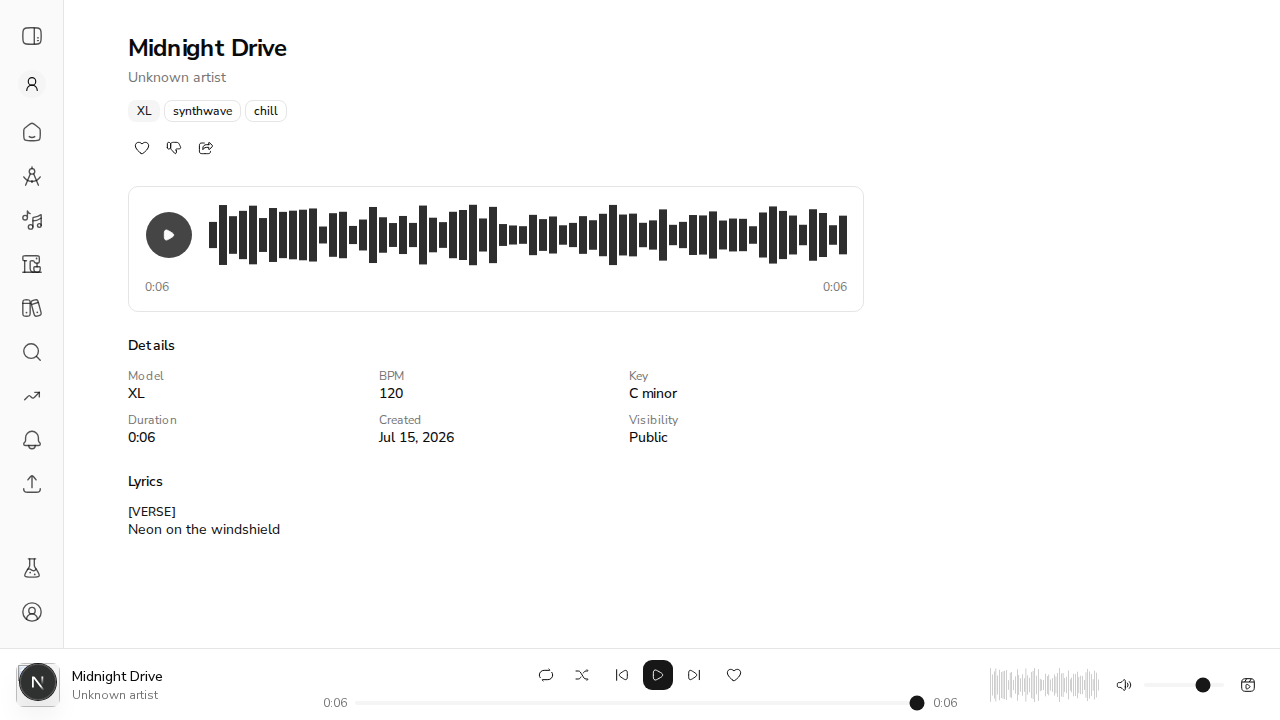
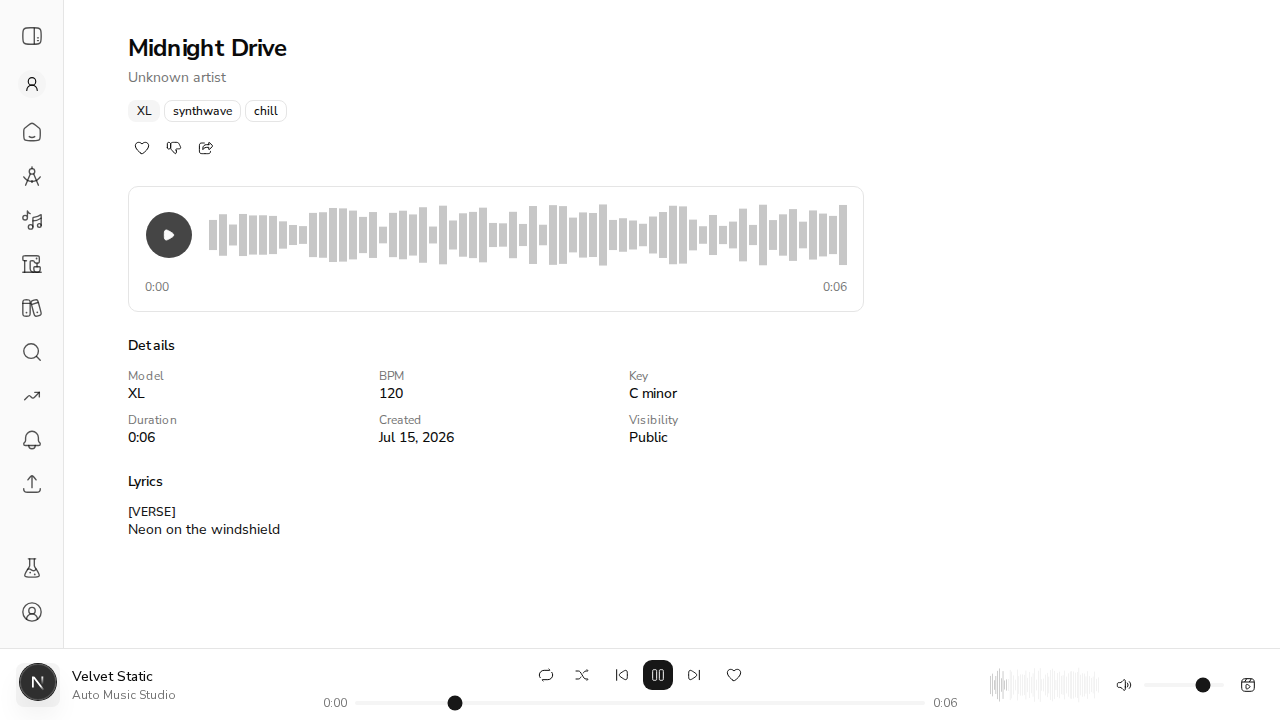
docs: re-run US-20.0 demo against the final commit (#250)
The prior evidence was captured at e8e2b7a, three commits before HEAD — one of
which (272378a) changed the ownership-gate default the AC4 evidence rests on, so
the demo was re-run rather than assumed still valid.

The public clip is now seeded with a *private parent*, which exercises the
ancestry redaction from 3e6672d against real lineage: the owner's page shows
'Generation history -> Derived from Private Parent Sketch', while a signed-out
visitor gets no panel and the parent's ObjectId appears nowhere in the DOM.

diff --git a/docs/demos/us-20.0-public-song-page.md b/docs/demos/us-20.0-public-song-page.md
@@ -1,43 +1,56 @@
 # US-20.0 — Public Song Page & Anonymous Public Read
 
-Demo of issue #250. Every acceptance criterion below is backed by observed
-outcome, not by "the page rendered" or "the test exited 0".
+Demo of issue #250, re-run end-to-end against the final commit (`272378a`). Every
+acceptance criterion below is backed by observed outcome — not "the page
+rendered" and not "the tests are green".
 
 ## Setup
 
-A throwaway stack: API on `:8077` (Mongo on `:27018`, local storage), web on
-`:3077`. Two clips seeded for one owner (no clip-ingest API exists, so they go in
-via Beanie + storage):
+Throwaway stack: API on `:8077` (Mongo on `:27018`, local storage), web on
+`:3077`. Three clips seeded for one owner (no clip-ingest API exists, so they go
+in via Beanie + storage), plus a second account to act as a non-owner:
 
-| Clip | Visibility | Id |
+| Clip | Visibility | Note |
 |---|---|---|
-| Midnight Drive | **public** | `6a570edf801c407af6acb010` |
-| Unreleased Sketch | **private** | `6a570edf801c407af6acb011` |
+| Midnight Drive | **public** | the shared link; **derived from the private parent below** |
+| Private Parent Sketch | private | ancestor of the public clip — exercises the ancestry redaction |
+| Unreleased Sketch | private | the "private clips stay private" case |
 
-Both carry a real 6-second WAV tone, a title, style tags, lyrics, and a
+Each carries a real 6-second WAV tone, title, style tags, lyrics, and a
 generation recipe (`seed=4242`, `inference_steps=30`).
 
-## AC1 — A signed-out visitor opening a public clip's link sees the song page
+The public clip deliberately has a **private parent**, so the redaction is
+exercised against real ancestry rather than an empty list.
 
-Opened `/song/6a570edf801c407af6acb010` in a browser with **no cookies at all**
-(`document.cookie` → empty). No redirect to `/login`; `location.pathname` stayed
-on the song URL.
+## Evidence table
+
+| Criterion | Action | Outcome evidence | Status |
+|---|---|---|---|
+| AC1 — signed-out visitor sees the song page | Open `/song/{public}` with no session cookie | Stays on `/song/…` (no `/login` redirect); title "Midnight Drive", tags `synthwave`/`chill`, Details BPM 120 / Key C minor / Visibility Public, lyrics all render | **VERIFIED** |
+| AC1 — playable audio | Real click on Play | Transport flips to **Pause**; elapsed advances **0:00 → 0:01 → 0:02** in both the song player and the playbar; `/api/clips/{id}/stream` transferred **529,544 bytes** with no `Authorization` header | **VERIFIED** |
+| AC2 — non-owner authenticated user can open it | Sign in as `[email redacted]`, open the same URL | `AUTHENTICATED: true` (app fetched `/api/users/me`, which only happens with a real access token); title renders; `notFound: false` | **VERIFIED** |
+| AC3 — private clips still 404, no metadata leak | Open `/song/{private}` signed out | "Song not found"; `leaksTitle: false`, `leaksLyrics: false`. API: `GET /clips/{private}/public` → **404** (not 403 — a stranger can't tell it exists) | **VERIFIED** |
+| AC4 — owner-only actions hidden for non-owners | Same URL, three viewers | signed-out → no publish toggle, no Actions menu; authenticated non-owner → same; **owner → both appear**. Gated on `is_owner`, not globally absent | **VERIFIED** |
+| AC5 — owner-scoped CRUD read preserved | `GET /clips/{public}` | anonymous → **401** (still auth-gated); owner → 200. `test_other_users_clip_returns_404_even_when_public` passes unchanged | **VERIFIED** |
+
+## AC1 — signed-out visitor
+
+Opened with **no session cookie** (`document.cookie` held only Next's HMR dev
+hash). No redirect.
 
 ![Anonymous visitor viewing the public song page](us200-anon-public.png)
 
-Title, style tags (`synthwave`, `chill`), Details (Model / BPM 120 / Key C minor
-/ Duration / Visibility Public) and lyrics all render.
+Playback is real, not inferred. The engine builds its element with `new Audio()`,
+so it never enters the DOM and "an `<audio>` exists" would prove nothing. A
+direct probe of the proxy URL in the signed-out browser:
 
-**Playable audio — actually played, not just present.** The engine builds the
-`<audio>` element with `new Audio()`, so it is never in the DOM and "an element
-exists" would prove nothing. Instead:
+```json
+{ "duration": 6, "readyState": 4, "mediaError": null, "playError": null,
+  "paused": false, "before": 0, "after": 1.46, "advanced": true }
+```
 
-- The browser fetched `/api/clips/{id}/stream` and transferred **529,544 bytes**
-  (the full WAV) with no `Authorization` header.
-- After a real click on Play, the transport flipped to **Pause** and the elapsed
-  time advanced **0:00 → 0:03**. Duration read `0:06`, matching the seeded tone.
-
-Range requests work through the proxy, so seeking is real:
+The audio decodes to the correct 6-second duration and `currentTime` advances —
+served anonymously. Seeking works too:
 
 ```
 $ curl -sD- -H "Range: bytes=0-99" localhost:3077/api/clips/{id}/stream
@@ -45,98 +58,79 @@ HTTP/1.1 206 Partial Content
 content-range: bytes 0-99/529244
 ```
 
-## AC2 — A non-owner authenticated user can open a public clip's page
-
-Signed in as a second account (`[email redacted]`) via a real rotating
-refresh-token session. Confirmed genuinely authenticated — the app fetched
-`/api/users/me`, which it only does when it holds an access token:
-
-```json
-{ "AUTHENTICATED": true, "title": "Midnight Drive",
-  "ownerControls": [], "actionsDropdown": false }
-```
+## AC2 — authenticated non-owner
 
 ![Authenticated non-owner viewing the public song page](us200-nonowner-public.png)
 
-## AC3 — Private clips still 404 for non-owners / anonymous (no metadata leak)
+Confirmed genuinely signed in rather than silently anonymous — an earlier attempt
+looked green while actually being anonymous, because the rotating refresh token
+had already been consumed.
 
-Anonymous visitor opening the **private** clip's link:
+## AC3 — private clip
 
 ![Private clip is not found for a visitor](us200-anon-private.png)
 
-Asserted the page leaks neither the title nor the lyrics:
+## AC4 — ownership gating, and the redaction made visible
 
-```json
-{ "notFound": true, "heading": "Song not found",
-  "leaksTitle": false, "leaksLyrics": false }
-```
-
-At the API, a stranger cannot even tell the clip exists — anonymous gets an
-indistinguishable 404 (not a 403):
-
-```
-$ curl -s localhost:8077/api/v1/clips/{private}/public
-{"detail":"Clip not found."}    # status=404
-```
-
-## AC4 — Owner-only actions are hidden for non-owners
-
-The same clip at the same URL, by viewer:
-
-| Viewer | Publish toggle | Actions menu | Like / Dislike / Share |
-|---|---|---|---|
-| Anonymous | hidden | hidden | shown |
-| Authenticated non-owner | hidden | hidden | shown |
-| **Owner** | **shown** | **shown** | shown |
-
-The owner's view — note the 4th (globe) icon and the **Actions** dropdown that
-visitors don't get:
+The owner's view of the **same URL**. Note the 4th (globe) icon and the
+**Actions** dropdown that visitors don't get — and the **Generation history**
+panel showing *"Derived from → Private Parent Sketch"*:
 
 ![Owner viewing their own public song page](us200-owner-public.png)
 
-This is the load-bearing half of the check: the controls appear *only* when the
-server says `is_owner`, so they are genuinely gated rather than globally absent.
+The signed-out visitor gets none of it. Same clip, same URL:
 
-## AC5 — Owner-scoped CRUD read is preserved; the public read is distinct
-
-`GET /clips/{id}` is untouched and still 404s on another user's clip even when it
-is public — `tests/test_clips_crud_api.py::TestGetClip::test_other_users_clip_returns_404_even_when_public`
-passes unchanged (40/40 CRUD tests green).
-
-The redaction is asymmetric on the same endpoint:
-
-```
-anonymous  → workspace_id: null,  seed: null,  inference_steps: null,  is_owner: false
-owner      → workspace_id: "…00f", seed: 4242, inference_steps: 30,    is_owner: true
+```json
+{ "SIGNED_OUT": true, "title": "Midnight Drive",
+  "hasGenerationHistory": false, "leaksParentTitle": false,
+  "leaksParentId": false, "leaksOtherPrivateClip": false, "ownerControls": [] }
 ```
 
-Neither response ever carries `user_id` — ownership travels only as `is_owner`.
+That's the ancestry redaction with a visible consequence: the owner sees the
+lineage panel; a stranger gets no panel at all, and the private parent's ObjectId
+appears **nowhere in the DOM**.
+
+## AC5 — the two reads are distinct, and the redaction is asymmetric
+
+Same endpoint, two callers:
+
+```
+anonymous → workspace_id: null,   seed: null, inference_steps: null, parent_clip_ids: [],          is_owner: false
+owner     → workspace_id: "…8df", seed: 4242, inference_steps: 30,   parent_clip_ids: ["…8e0"],    is_owner: true
+```
+
+`user_id` is absent from both — ownership travels only as `is_owner`. The private
+parent's id is confirmed absent from the anonymous payload.
+
+Meanwhile the owner-scoped CRUD read is untouched: `GET /clips/{public}` still
+401s anonymously and 404s for a non-owner (pinned by the unchanged CRUD test).
 
 ## Tests
 
-- Backend: 13 new (`TestGetClipPublic`) covering the visibility matrix,
-  redaction, and rate limiting. 80/80 clips integration tests green; 1674 unit
-  tests green.
-- Web: 14 new BFF route tests + 7 new public-page tests. 1124/1124 green;
-  typecheck, lint and `next build` all clean.
+- Backend: 15 new (`TestGetClipPublic`) — visibility matrix, redaction (including
+  ancestry, both directions), rate limiting. 82/82 clips integration green, 1674
+  unit green, black + ruff clean.
+- Web: 14 BFF route tests + 9 public-page tests + 2 SongHeader ownership tests.
+  1127/1127 green; typecheck, lint, `next build` clean.
 
-Mutation-checked the three claims that matter most — deleting the redaction,
-bypassing the visibility helper, and re-introducing the `accessToken` gate in the
-hook's `loading` formula each fail a test.
+Mutation-checked the four claims that carry the security contract — deleting the
+redaction, bypassing the visibility helper, re-introducing the `accessToken` gate
+in the hook's `loading` formula, and flipping the `isOwner` default back to
+`true` — each fails a test.
 
 ## Known limitations
 
 - **Private-clip playback is still broken** (pre-existing, not a regression): an
-  `<audio src>` cannot attach a Bearer token, so a private clip 404s at the
-  stream endpoint. It was equally broken before this change, when `clipAudioUrl`
-  pointed at a path this app never served. Fixing it needs cookie-auth on the
-  proxy — its own story.
-- **Cover art does not load** — `clipArtworkUrl` still builds a bare `/api/v1`
-  path with no proxy route behind it. Out of scope here.
-- **Authenticated non-owners lose Download** on a public clip, because the whole
-  actions menu is hidden. Not a regression (the page didn't open for them at
-  all before).
-- `unlisted` is deferred to US-20.7 — `Clip` has no such field; that's the
-  write side of visibility.
-- Related songs / lineage panels are hidden for anonymous visitors: both are
-  owner-scoped, authenticated reads and degrade quietly to nothing.
+  `<audio src>` cannot attach a Bearer token. Measured: the path `main` shipped
+  (`/api/v1/clips/{id}/audio`) 404s, so playback was dead for *every* clip
+  before this change. Public now 200s; private stays 404 → **#282**.
+- **The public rate limiter collapses into one shared bucket** behind the BFF —
+  all proxied traffic arrives as the Next server's IP → **#283**.
+- **The access token is never refreshed** and `isAuthenticated` ignores `exp`, so
+  owner-only pages break after expiry → **#285**.
+- Authenticated non-owners lose Download on a public clip (the whole menu is
+  hidden). Not a regression — the page didn't open for them at all before.
+- Cover art still doesn't load (`clipArtworkUrl` has the same dead-path problem).
+- `unlisted` deferred to US-20.7 (#219) — `Clip` has no such field.
+- Related songs / lineage are owner-scoped authenticated reads, so they degrade
+  to nothing for a visitor (by design — see AC4 above).